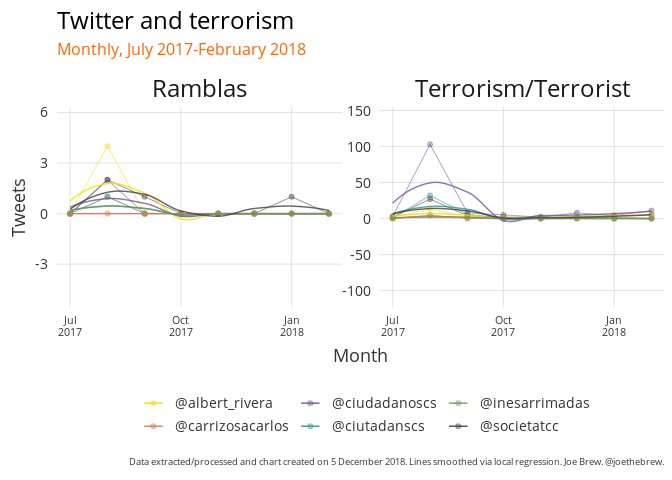
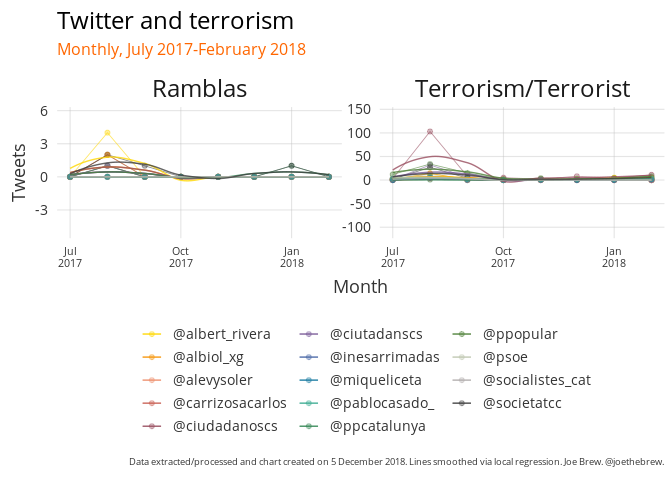
update

diff --git a/inst/rmd/el_relat_de_la_violencia/README.md b/inst/rmd/el_relat_de_la_violencia/README.md
@@ -44,7 +44,7 @@ We restricted our analysis to the 1 year period between August 1, 2017 and July 
 
 #### Aggregation and counting
 
-We grouped the resultant data by person/account and calendar month, and calculated the sum of the total number of violence-flagged tweets (excluding those flagged as domestic/gender violence) for each person-month.
+We grouped the resultant data by person/account and week, and calculated the sum of the total number of violence-flagged tweets (excluding those flagged as domestic/gender violence) for each person-week
 
 The results
 -----------
@@ -73,13 +73,13 @@ comandos: 'comando' (ie, comandos)
 assault: 'asalt' (ie, asaltar, asalto, asaltan)
 ```
 
-With the exception of the August 2017 peak with the word "attack" (a function of the terrorist attack on the Ramblas at that time), references to violent words among mainstraim Spanish and Catalan politicians were *low* during the supposed violent rebellion of the Catalan independence movement, but have been increasing since.
+With the exception of the August 2017 peak with the word "attack" (a function of the terrorist attack on the Ramblas at that time), references to violent words among mainstraim Spanish and Catalan politicians were *low* during the supposed violent rebellion of the Catalan independence movement, but have been increasing since. The below chart shows the number of tweets per month containing the titled words.
 
 ![](figures/unnamed-chunk-8-1.png)
 
 ### Comparison with actual violent event
 
-The trend of using event-related violence words at a low frequency, but then increasing their usage over time is the exact *opposite* of how reality is usually perceived and discussed. For example, if we examine the use of the words "terror" ("terrorism", "terrorist", etc.) and "rambla" (the location of the August 2017 terrorist attack) among the same group of accounts, we say that there is an initial spike in attention, followed by a long decline (see below chart). This is normal for newsworthy events.
+The trend of using event-related violence words at a low frequency, but then increasing their usage over time is the exact *opposite* of how reality is usually perceived and discussed. For example, if we examine the use of the words "terror" ("terrorism", "terrorist", etc.) and "rambla" (the location of the August 2017 terrorist attack) among the same group of accounts, we say that there is an initial spike in attention, followed by a long decline (see below chart with monthly tweets mentioning the strings "rambla" and "terror" among the same politicians as the above chart). This is normal for newsworthy events.
 
 ![](figures/unnamed-chunk-9-1.png)
 
@@ -89,18 +89,3 @@ Raw data
 --------
 
 The raw data (number of tweets of each type for each account for each month) is viewable [here](https://github.com/joebrew/vilaweb/blob/master/inst/rmd/el_relat_de_la_violencia/data_outputs/raw_data.csv)
-
-### Technical details
-
-All of the code for this analysis is open-source and available at <https://github.com/joebrew/vilaweb>.
-
-Follow Joe Brew on twitter at @joethebrew.
-
-Catalan language plots
-----------------------
-
-![](figures/unnamed-chunk-11-1.png)![](figures/unnamed-chunk-11-2.png)
-
-    Error in make_special_plot("ca"): could not find function "make_special_plot"
-
-![](figures/unnamed-chunk-11-3.png)![](figures/unnamed-chunk-11-4.png)
